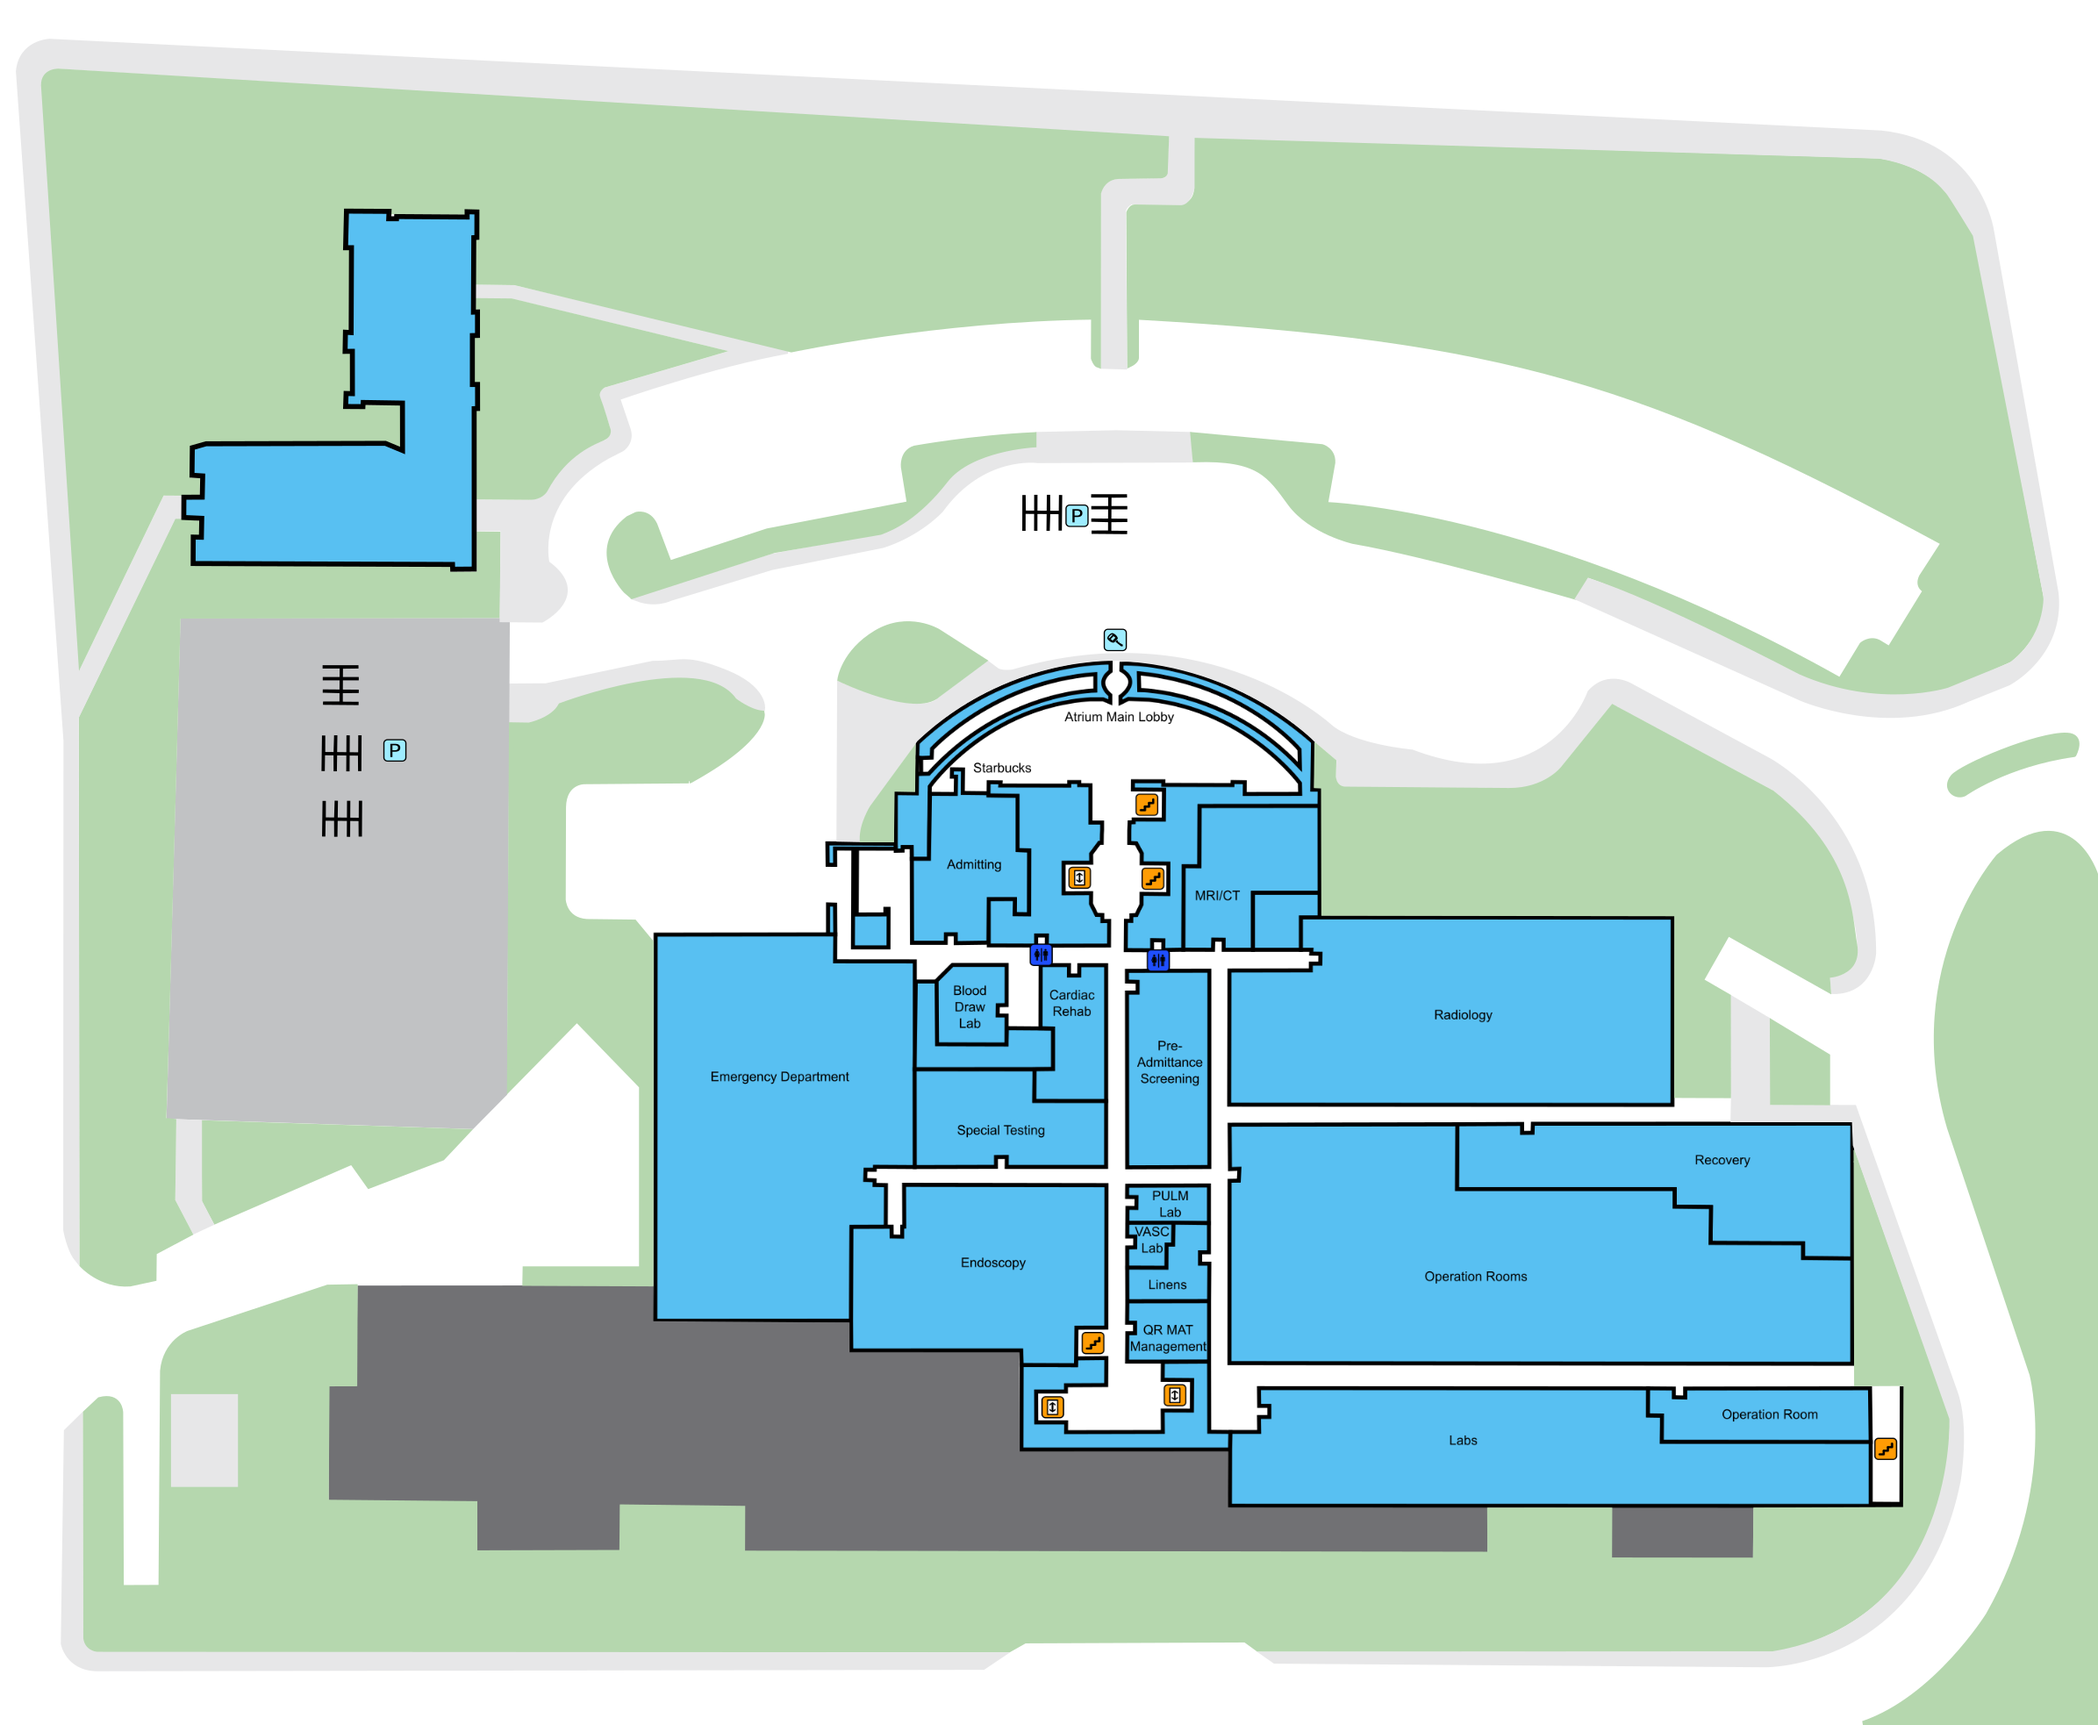
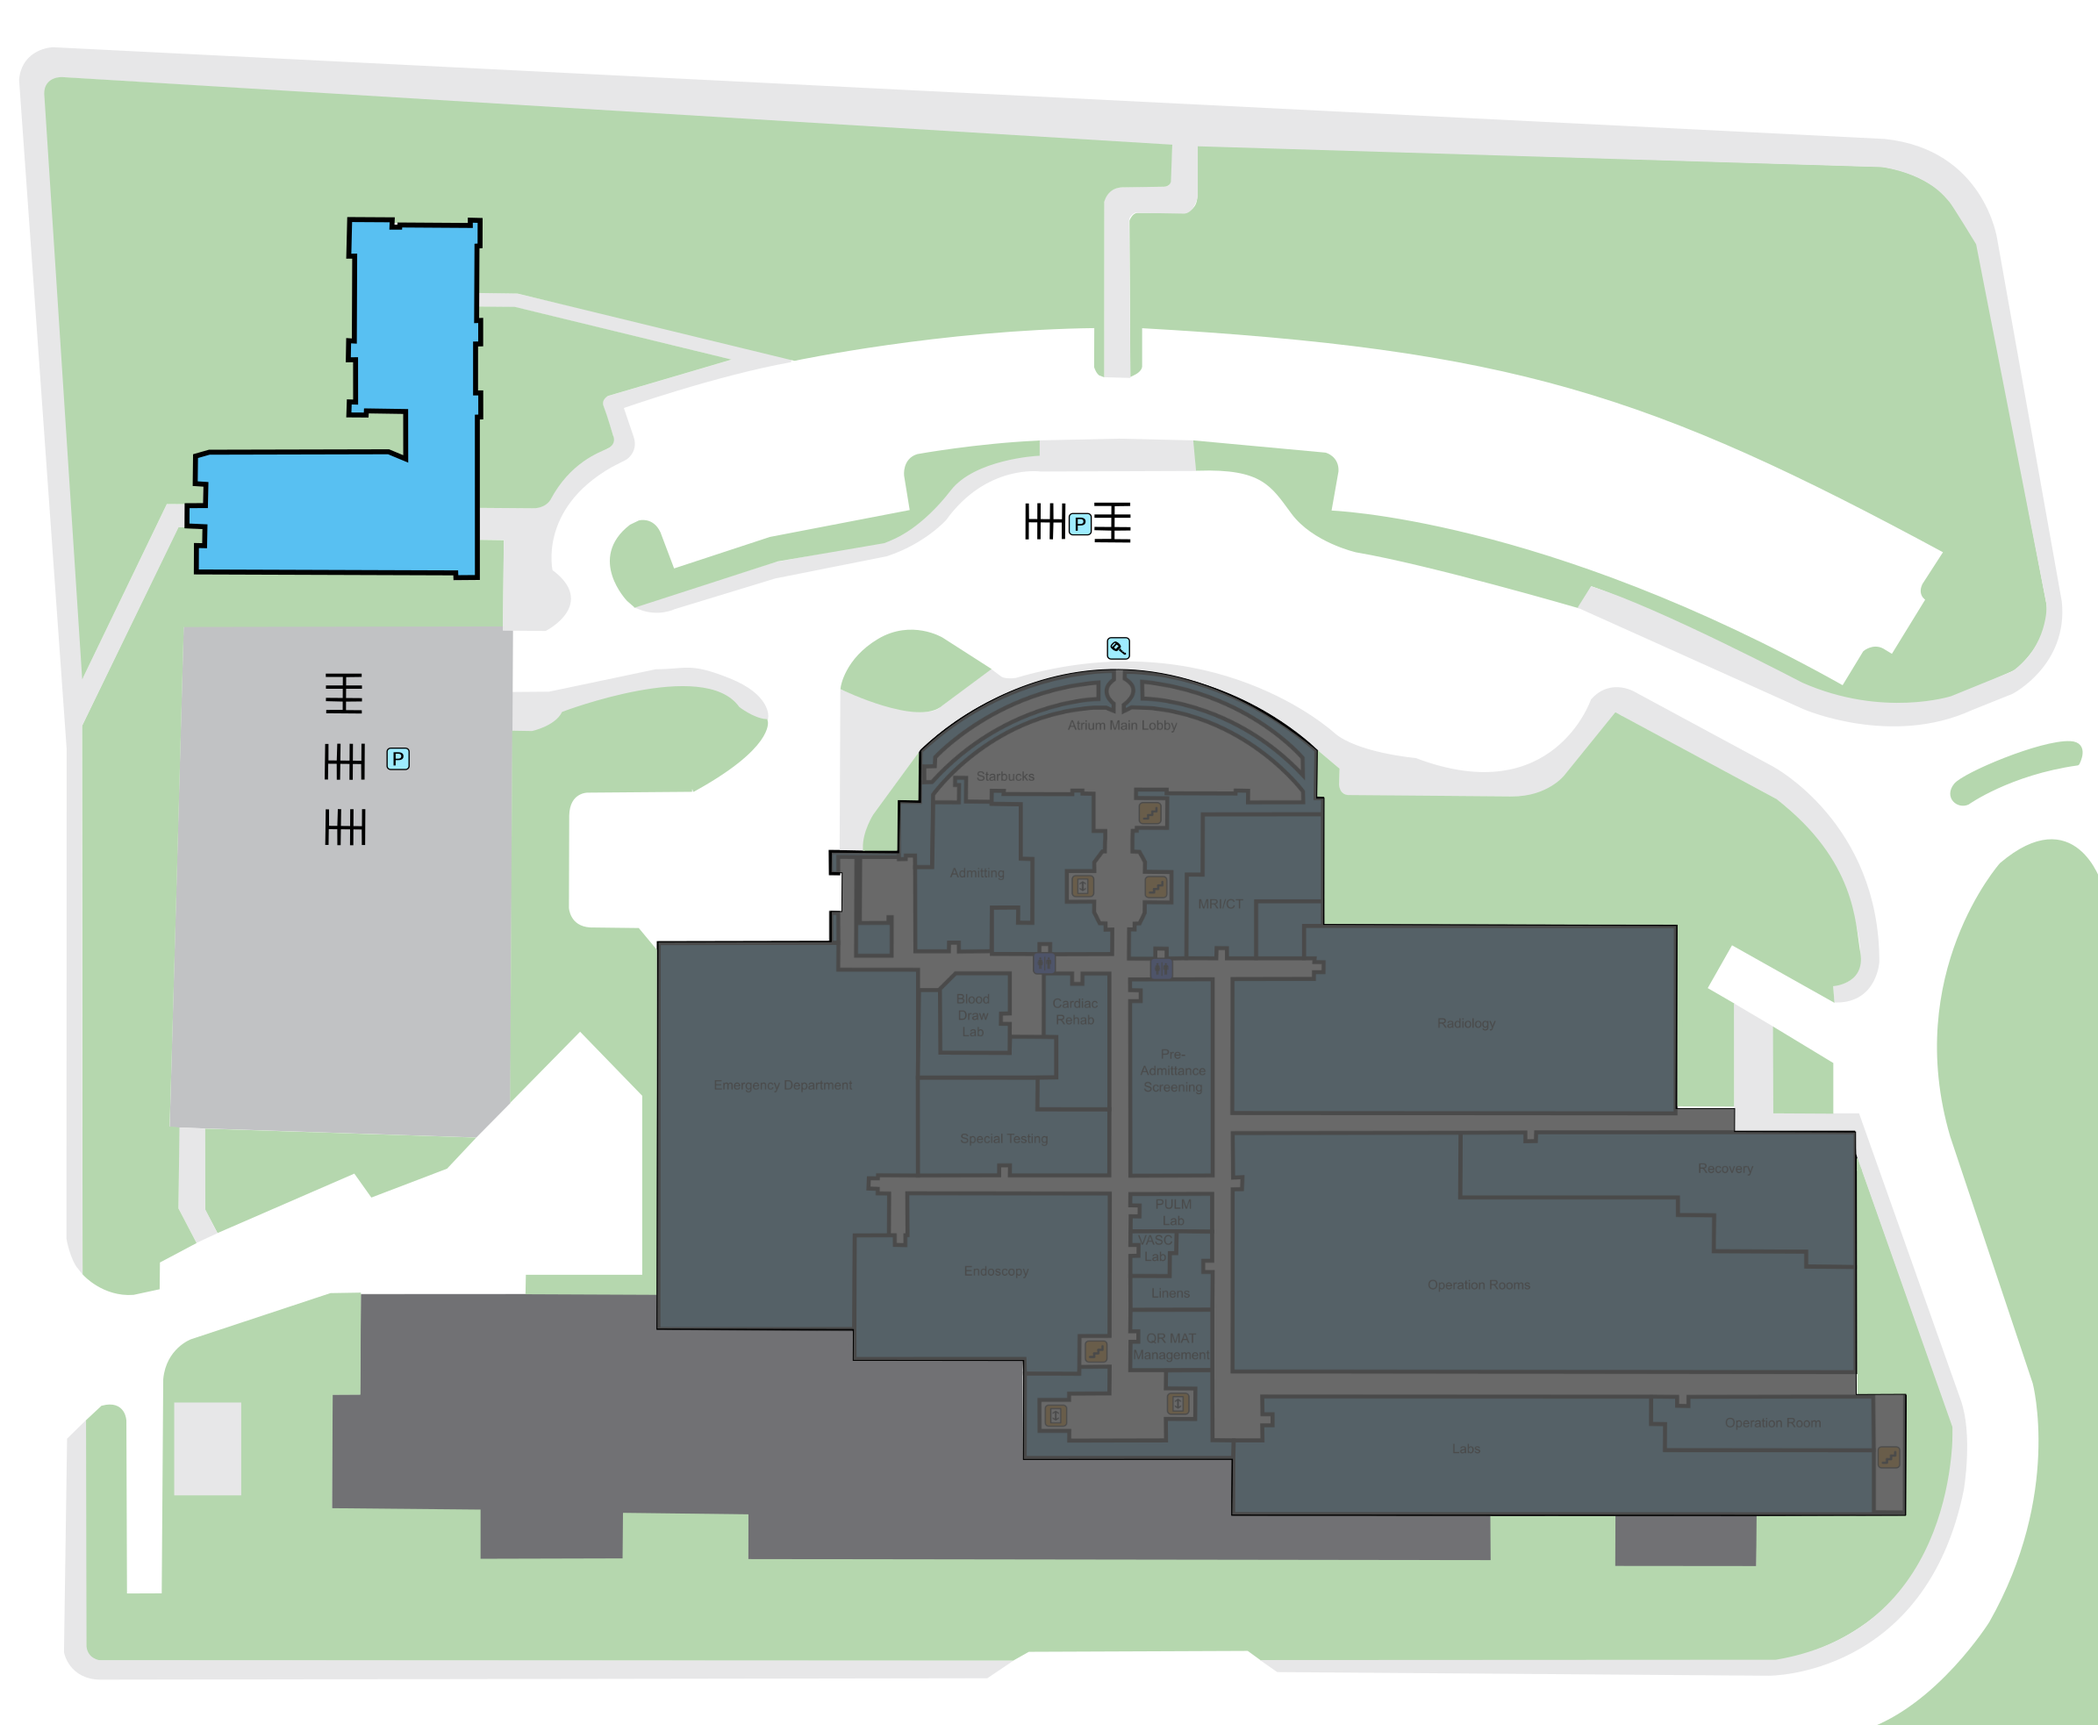
Kinda added the floor switching functionality

diff --git a/src/main/java/edu/wpi/u/controllers/AdminEditController.java b/src/main/java/edu/wpi/u/controllers/AdminEditController.java
@@ -32,6 +32,7 @@ public class AdminEditController {
     AnchorPane rightServiceRequestPane;
     AnchorPane leftMenuPane;
     AnchorPane pane = new AnchorPane();
+    ImageView node = new ImageView();
 
     /**
      * Initializes the admin map screen with map zoom, and all node and edge placement
@@ -40,7 +41,7 @@ public class AdminEditController {
     public void initialize() throws IOException {
         App.mapService.loadStuff();
         // Loading the map
-        ImageView node = new ImageView(String.valueOf(getClass().getResource(App.mapInteractionModel.mapImageResource.get())));
+        node = new ImageView(String.valueOf(getClass().getResource(App.mapInteractionModel.mapImageResource.get())));
         node.setFitWidth(2987);
         node.setPreserveRatio(true);
         pane.getChildren().add(node);
@@ -81,10 +82,12 @@ public class AdminEditController {
 
         App.mapInteractionModel.mapImageResource.addListener((observable, oldValue, newValue)  ->{
             pane.getChildren().remove(node);
-            ImageView newNode = new ImageView(String.valueOf(getClass().getResource(App.mapInteractionModel.mapImageResource.get())));
-            node.setFitWidth(1786);
+            node = new ImageView(String.valueOf(getClass().getResource(App.mapInteractionModel.mapImageResource.get())));
+            if(App.mapInteractionModel.floor.equals("G")){
+
+            }
             node.setPreserveRatio(true);
-            pane.getChildren().add(newNode);
+            pane.getChildren().add(node);
             pane.getChildren().removeAll(App.mapInteractionModel.nodeIDList);
             pane.getChildren().removeAll(App.mapInteractionModel.edgeIDList);
         });
@@ -138,7 +141,7 @@ public class AdminEditController {
                 if(n.getFloor().equals(floor)){
                     placeNodesHelper(n);
                 }else{
-                    System.out.println(n.getFloor());
+                    System.out.println(n.getFloor()+" is not a valid node!!! We cant put this on the screen bruh");
                 }
             } catch (IOException e) {
                 e.printStackTrace();
@@ -183,14 +186,10 @@ public class AdminEditController {
 
 
     public void generateEdges(String floor){
-        System.out.println("We're outside the function");
-        System.out.println(App.mapService.getEdges());
-        System.out.println("That's all folks");
         App.mapService.getEdges().stream().forEach(e ->{
             System.out.println("We're in the function");
         try {
             if(e.getStartNode().getFloor().equals(floor) && e.getEndNode().getFloor().equals(floor)){
-                System.out.println("The edge is a valid edge for printing");
                 placeEdgesHelper(e);
 
             } else{
@@ -253,5 +252,89 @@ public class AdminEditController {
 
 
     }
+
+
+    /**
+     * This is a helper function for the floor buttons.
+     * It reloads the correct image onto the GesturePane and
+     * loads the correct nodes onto the screen after deleting the old ones
+     * @param floor this is the floor G, 1, 2, 3, 4, or 5 as a string
+     * @param resource this a path that points to the correct floor map from the base package (/edu/wpi/u...)
+     */
+    public void loadNewMapAndGenerateHelper(String floor, String resource){
+
+        App.mapInteractionModel.mapImageResource.set(resource);
+        App.mapInteractionModel.floor = floor;
+        generateNodes(floor);
+        generateEdges(floor);
+    }
+
+    /**
+     * This is what changes the map displayed to floor G and reloads the correct nodes
+     */
+    public void handleFloorGButton(){
+        if(!App.mapInteractionModel.floor.equals("G")) {
+            loadNewMapAndGenerateHelper("G", "/edu/wpi/u/views/Images/FaulknerFloorG.png");
+        }
+    }
+
+
+    /**
+     * This is what changes the map displayed to floor 1 and reloads the correct nodes
+     */
+    public void handleFloor1Button(){
+        if(!App.mapInteractionModel.floor.equals("1")) {
+            loadNewMapAndGenerateHelper("1", "/edu/wpi/u/views/Images/FaulknerFloor1.png");
+        }
+    }
+
+
+    /**
+     * This is what changes the map displayed to floor 2 and reloads the correct nodes
+     */
+    public void handleFloor2Button(){
+        if(!App.mapInteractionModel.floor.equals("2")) {
+            loadNewMapAndGenerateHelper("2", "/edu/wpi/u/views/Images/FaulknerFloor2.png");
+        }
+    }
+
+
+    /**
+     * This is what changes the map displayed to floor 3 and reloads the correct nodes
+     */
+    public void handleFloor3Button(){
+        if(!App.mapInteractionModel.floor.equals("3")) {
+            loadNewMapAndGenerateHelper("3", "/edu/wpi/u/views/Images/FaulknerFloor3.png");
+        }
+    }
+
+
+    /**
+     * This is what changes the map displayed to floor 4 and reloads the correct nodes
+     */
+    public void handleFloor4Button(){
+        if(!App.mapInteractionModel.floor.equals("4")) {
+            loadNewMapAndGenerateHelper("4", "/edu/wpi/u/views/Images/FaulknerFloor4.png");
+        }
+    }
+
+
+    /**
+     * This is what changes the map displayed to floor 5 and reloads the correct nodes
+     */
+    public void handleFloor5Button(){
+        if(!App.mapInteractionModel.floor.equals("5")) {
+            loadNewMapAndGenerateHelper("5", "/edu/wpi/u/views/Images/FaulknerFloor5.png");
+        }
+    }
+
+
+
+
+
+
+
+
+
 
 }
